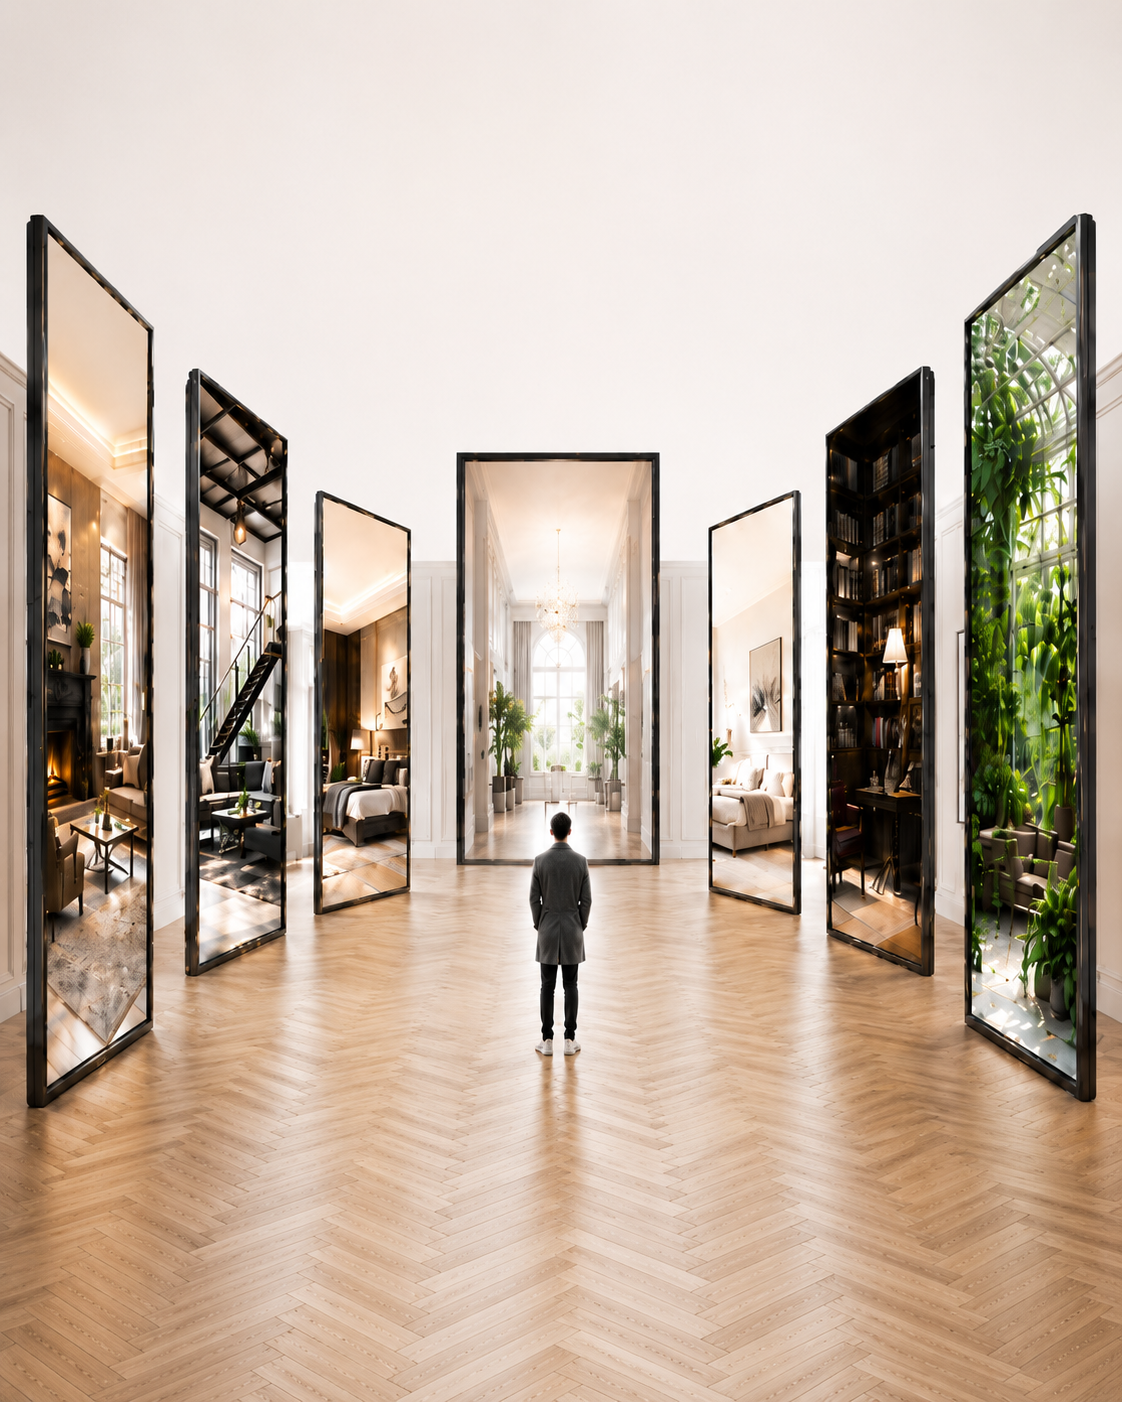
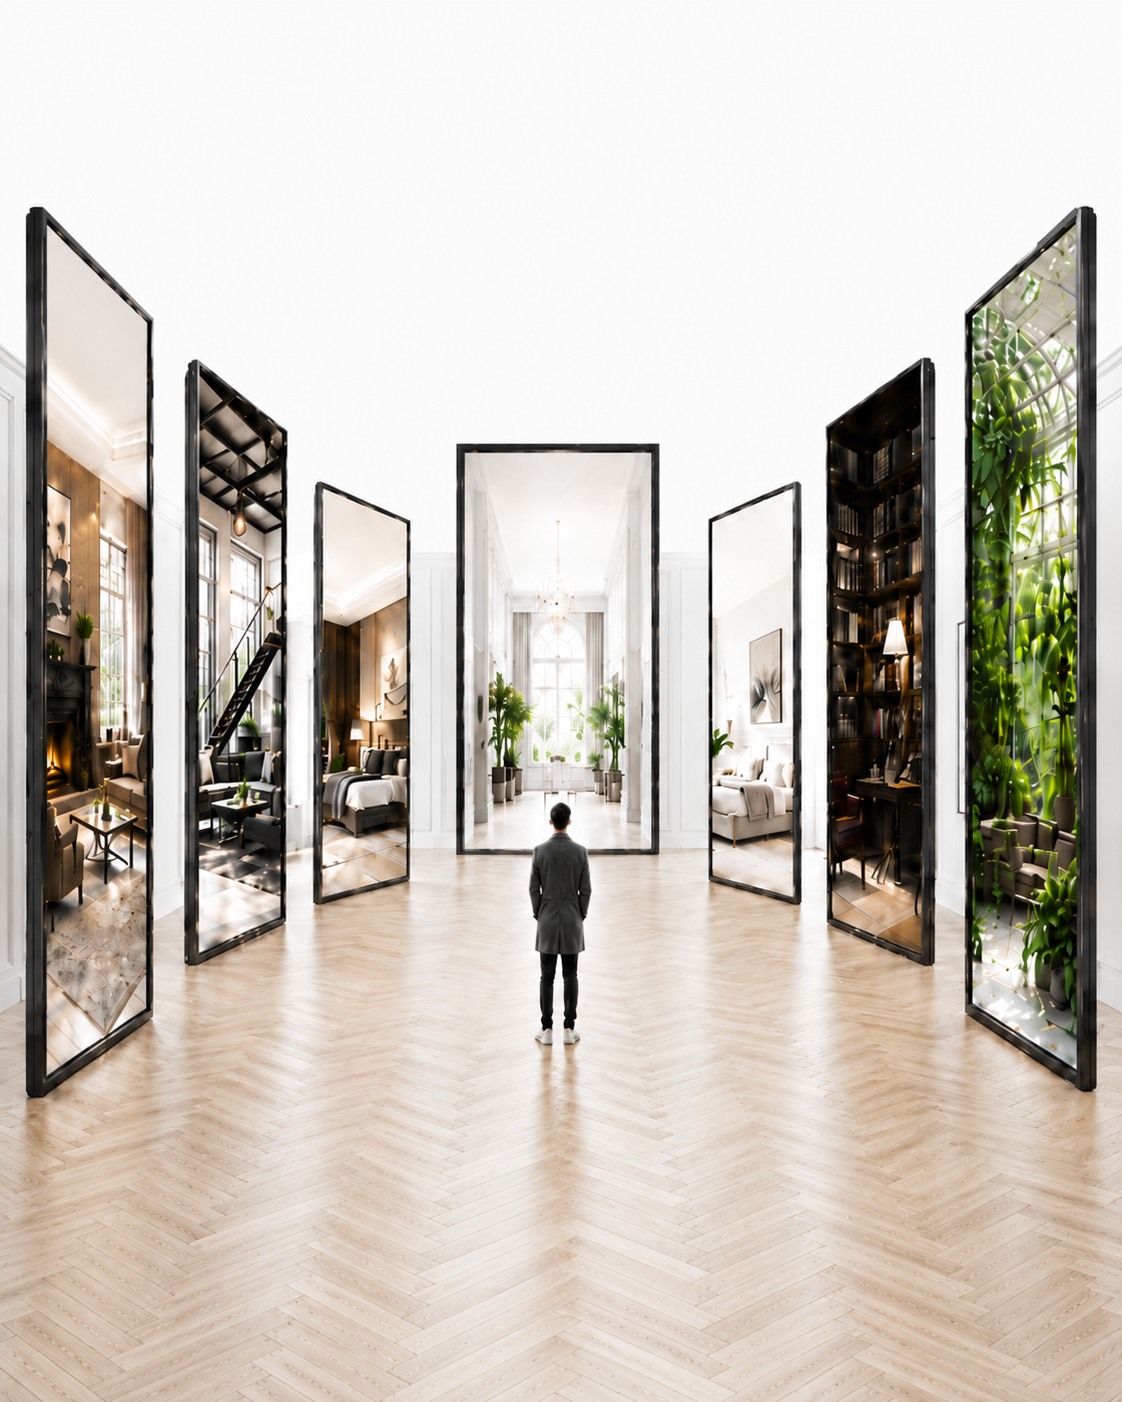
update hero hotspot labels, positions, button text; add background-5-mobile

diff --git a/app/components/ScrollVideoHero.tsx b/app/components/ScrollVideoHero.tsx
@@ -132,56 +132,59 @@ interface Hotspot { left: string; top: string; label: string; tipLeft?: boolean;
 const ZONE_HOTSPOTS: Hotspot[][] = [
   // 0 Спальня
   [
-    { left: "53%", top: "42%", label: "Рифлёное стекло" },
-    { left: "5%",  top: "38%", label: "Зеркало" },
+    { left: "53%", top: "42%", label: "Неподвижная перегородка" },
+    { left: "5%",  top: "38%", label: "Прикроватные зеркала" },
   ],
   // 1 Балкон
   [
     { left: "64%", top: "39%", label: "Стеклянное ограждение" },
-    { left: "52%", top: "60%", label: "Парапет лестницы", tipLeft: true },
+    { left: "52%", top: "60%", label: "Стеклянные перила", tipLeft: true },
+    { left: "71%", top: "55%", label: "Стеклянные полы", tipLeft: true },
   ],
   // 2 Спортзал
   [
     { left: "38%", top: "40%", label: "Зеркальная стена" },
-    { left: "83%", top: "46%", label: "Стеклянная перегородка", tipLeft: true },
+    { left: "83%", top: "46%", label: "Цельностеклянная перегородка", tipLeft: true },
+    { left: "62%", top: "34%", label: "Панорамное остекление", tipLeft: true },
   ],
   // 3 Бассейн
   [
-    { left: "14%", top: "35%", label: "Стеклянная перегородка" },
+    { left: "14%", top: "35%", label: "Цельностеклянная перегородка" },
     { left: "62%", top: "50%", label: "Остекление сауны", tipLeft: true },
   ],
   // 4 Душевая
   [
-    { left: "51%", top: "50%", label: "Душевой экран" },
-    { left: "85%", top: "42%", label: "Зеркало с подсветкой", tipLeft: true },
+    { left: "51%", top: "50%", label: "Душевые двери" },
+    { left: "85%", top: "42%", label: "Зеркало с подсветкой в раме", tipLeft: true },
   ],
   // 5 Кухня
   [
     { left: "13%", top: "44%", label: "Витрина" },
     { left: "62%", top: "24%", label: "Стеклянные фасады", tipLeft: true },
     { left: "55%", top: "44%", label: "Кухонный фартук" },
+    { left: "83%", top: "76%", label: "Стеклянные столешницы", tipLeft: true },
   ],
   // 6 Прихожая
   [
-    { left: "27%", top: "42%", label: "Зеркальная стена" },
-    { left: "54%", top: "54%", label: "Овальные зеркала", tipLeft: true },
+    { left: "27%", top: "42%", label: "Зеркальное панно" },
+    { left: "54%", top: "54%", label: "Loft Ширмы из стекла и зеркал", tipLeft: true },
   ],
   // 7 Холл
   [
-    { left: "26%", top: "50%", label: "Стеклянный парапет" },
-    { left: "62%", top: "54%", label: "Стеклянная перегородка", tipLeft: true },
-    { left: "69%", top: "42%", label: "Зеркало", tipLeft: true },
+    { left: "26%", top: "50%", label: "Стеклянные лестницы" },
+    { left: "62%", top: "54%", label: "Loft перегородки из стекла", tipLeft: true },
+    { left: "74%", top: "42%", label: "Зеркала в рамах", tipLeft: true },
   ],
   // 8 Детская
   [
     { left: "44%", top: "40%", label: "Рифлёное стекло" },
     { left: "68%", top: "40%", label: "Состаренное зеркало", tipLeft: true },
-    { left: "83%", top: "34%", label: "Зеркало-бабочка", tipLeft: true },
+    { left: "83%", top: "34%", label: "Декоративные зеркала", tipLeft: true },
   ],
   // 9 Ванная
   [
     { left: "39%", top: "37%", label: "Зеркало с подсветкой" },
-    { left: "60%", top: "48%", label: "Душевой экран", tipLeft: true },
+    { left: "60%", top: "48%", label: "Душевые перегородки", tipLeft: true },
   ],
 ];
 
@@ -1220,9 +1223,9 @@ function HeroText({ variant }: { variant?: "block" } = {}) {
         color: textInk,
       } as React.CSSProperties}>
         {isBlock ? (
-          <>наше Стекло создаёт<br />пространство и уют.</>
+          <>наше Стекло создаёт пространство и уют.</>
         ) : (
-          <>Стекло и зеркала,<br />которые идеально подходят вашему интерьеру</>
+          <>Стекло и зеркала, которые<br />идеально подходят вашему интерьеру</>
         )}
       </h1>
 
@@ -1263,7 +1266,7 @@ function HeroText({ variant }: { variant?: "block" } = {}) {
         textTransform: "uppercase",
         whiteSpace: "nowrap",
       } as React.CSSProperties}>
-        Смотреть проекты
+        Хочу обсудить проект
         <svg width="26" height="10" viewBox="0 0 26 10" fill="none">
           <path d="M0 5h24M20 1l4 4-4 4" stroke="currentColor" strokeWidth="1.2" />
         </svg>
